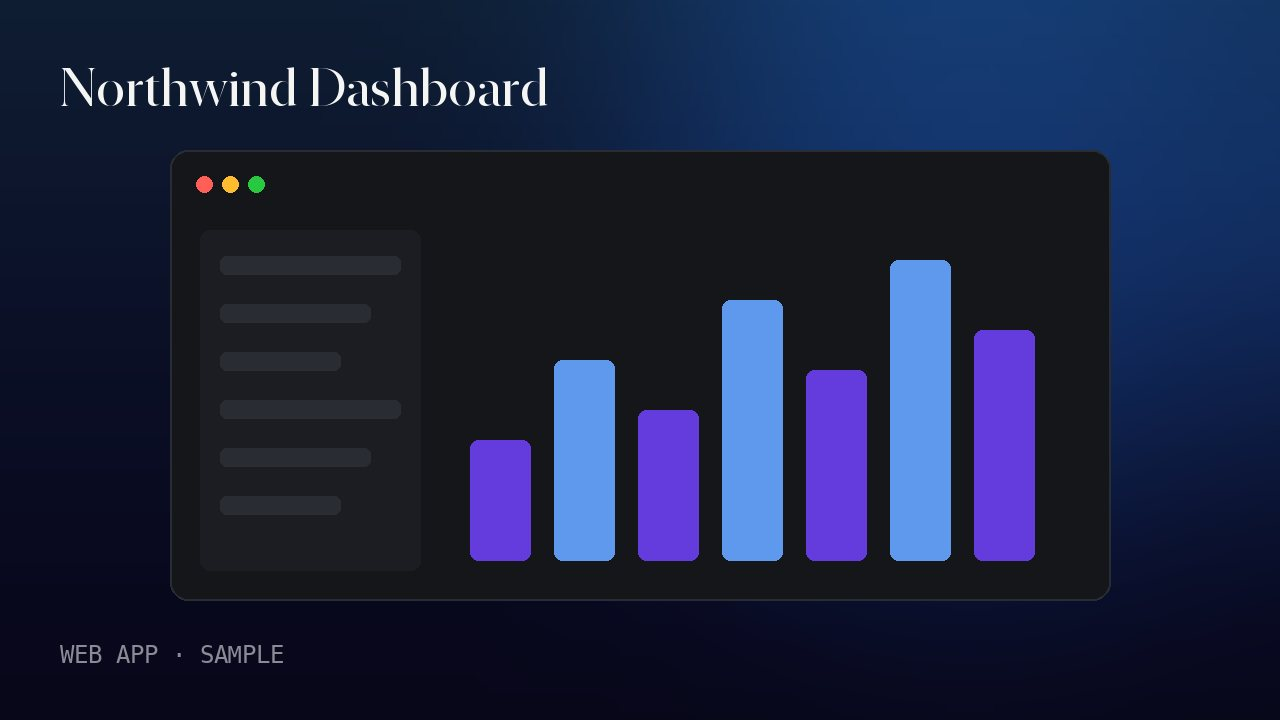
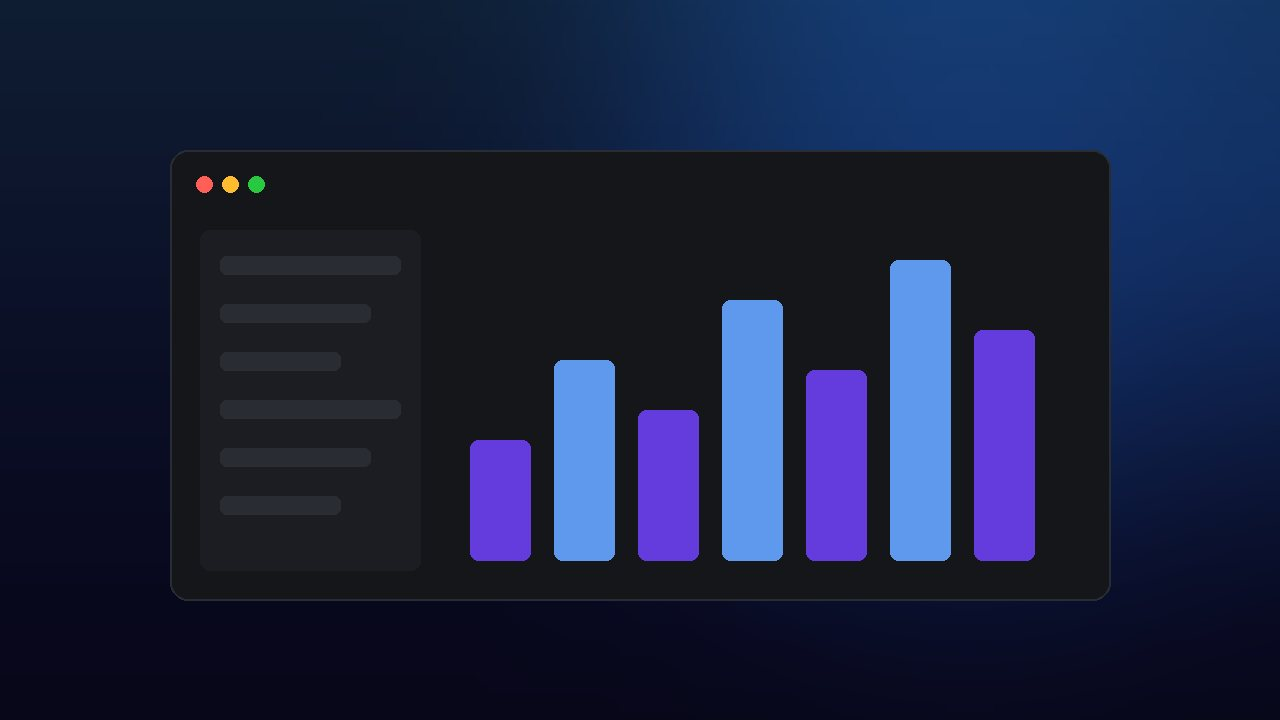
docs: add README screenshots and a script to regenerate them
Also drops text from the placeholder project covers so it no longer collides
with the card badges.

Changed region(s): [[0.0312, 0.0917, 0.4375, 0.1528], [0.0312, 0.8861, 0.125, 0.9167], [0.1562, 0.8861, 0.2188, 0.9167]]

diff --git a/scripts/make_sample_assets.py b/scripts/make_sample_assets.py
@@ -70,8 +70,7 @@ def cover(title, tag, hue, path, kind):
         for i in range(5): d.rounded_rectangle([196, 190 + i * 70, 396, 240 + i * 70], 10, fill=acc if i == 1 else "#23252b")
         d.text((460, 190), "Untitled note", font=font(46), fill="#e7e7ea")
         for i in range(6): d.rounded_rectangle([460, 270 + i * 46, 1060 - (i % 3) * 110, 286 + i * 46], 8, fill=line)
-    d.text((60, 640), tag.upper(), font=font(24, True), fill="#8b8b96")
-    d.text((60, 54), title, font=font(54), fill="#f5f5f4")
+    # No text on the art: project cards and case-study pages already show the title and badges.
     im.save(path, "JPEG", quality=84, optimize=True, progressive=True)
 
 if __name__ == "__main__":

diff --git a/README.md b/README.md
@@ -5,6 +5,33 @@ Built with **Next.js (App Router)**, **Tailwind CSS v4** and **Framer Motion**. 
 
 **Live demo:** https://salahu01.github.io/quietfolio/ (sample content)
 
+<p align="center">
+  <img src="docs/screenshots/home-dark.png" alt="quietfolio home page in the dark theme, with the pixel-art banner and cursor trail" width="860">
+</p>
+
+## Screenshots
+<table>
+  <tr>
+    <td width="50%"><img src="docs/screenshots/home-light.png" alt="Home page in the light theme"><br><sub><b>Light theme</b>, no flash on load</sub></td>
+    <td width="50%"><img src="docs/screenshots/command-palette.png" alt="Command palette search"><br><sub><b>⌘K command palette</b> searches sections, case studies and posts</sub></td>
+  </tr>
+  <tr>
+    <td><img src="docs/screenshots/projects.png" alt="Filterable project cards"><br><sub><b>Projects</b> with filters and live, repo and case-study links</sub></td>
+    <td><img src="docs/screenshots/case-study.png" alt="A case study page"><br><sub><b>Case studies</b> rendered from JSON: code, tables, quotes, lists</sub></td>
+  </tr>
+  <tr>
+    <td colspan="2"><img src="docs/screenshots/blog-post.png" alt="A blog post"><br><sub><b>Blog</b> with reading time, RSS and per-post social images</sub></td>
+  </tr>
+</table>
+
+**Mobile**
+
+<p>
+  <img src="docs/screenshots/mobile-home.png" alt="Home on a phone" width="240">
+  <img src="docs/screenshots/mobile-projects.png" alt="Projects on a phone" width="240">
+  <img src="docs/screenshots/mobile-case-study.png" alt="A case study on a phone" width="240">
+</p>
+
 ## Use it
 Click **Use this template** on GitHub, or:
 ```bash
@@ -39,6 +66,7 @@ npm run dev        # http://localhost:3000
 | `npm run check` | Everything above, in order (what CI runs) |
 | `npm run deploy:pages` | Static export → `gh-pages` branch (GitHub Pages) |
 | `npm run resume` | Regenerate `public/resume.pdf` |
+| `node scripts/make_screenshots.mjs` | Regenerate the README screenshots (see the script header) |
 
 ## Content format
 Blocks: `h2`, `h3`, `p`, `ul`, `ol`, `quote`, `code`, `img`, `table`. Inline: `**bold**`, `*italic*`, `` `code` ``, `[text](url)`. See the sample posts in `content/blog.json`.
